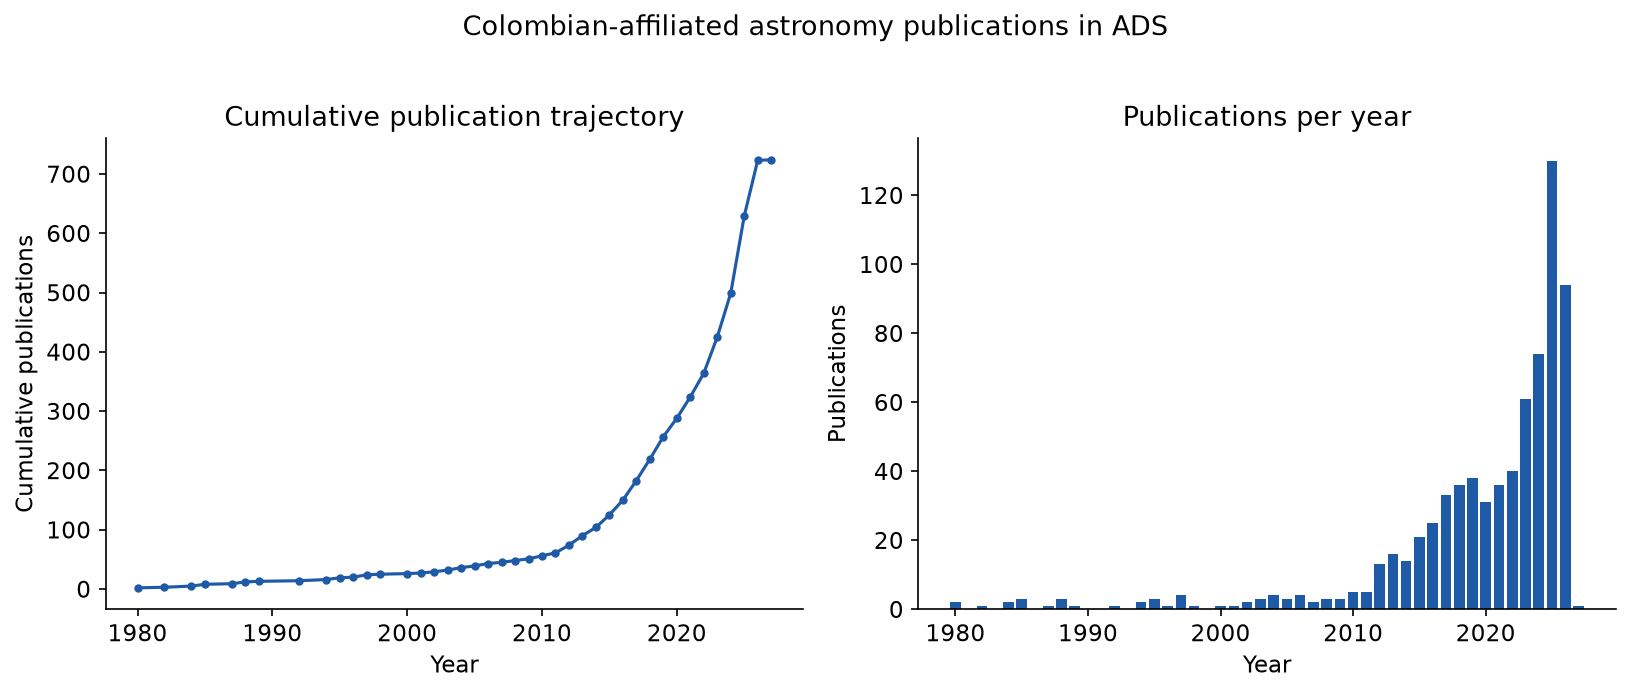
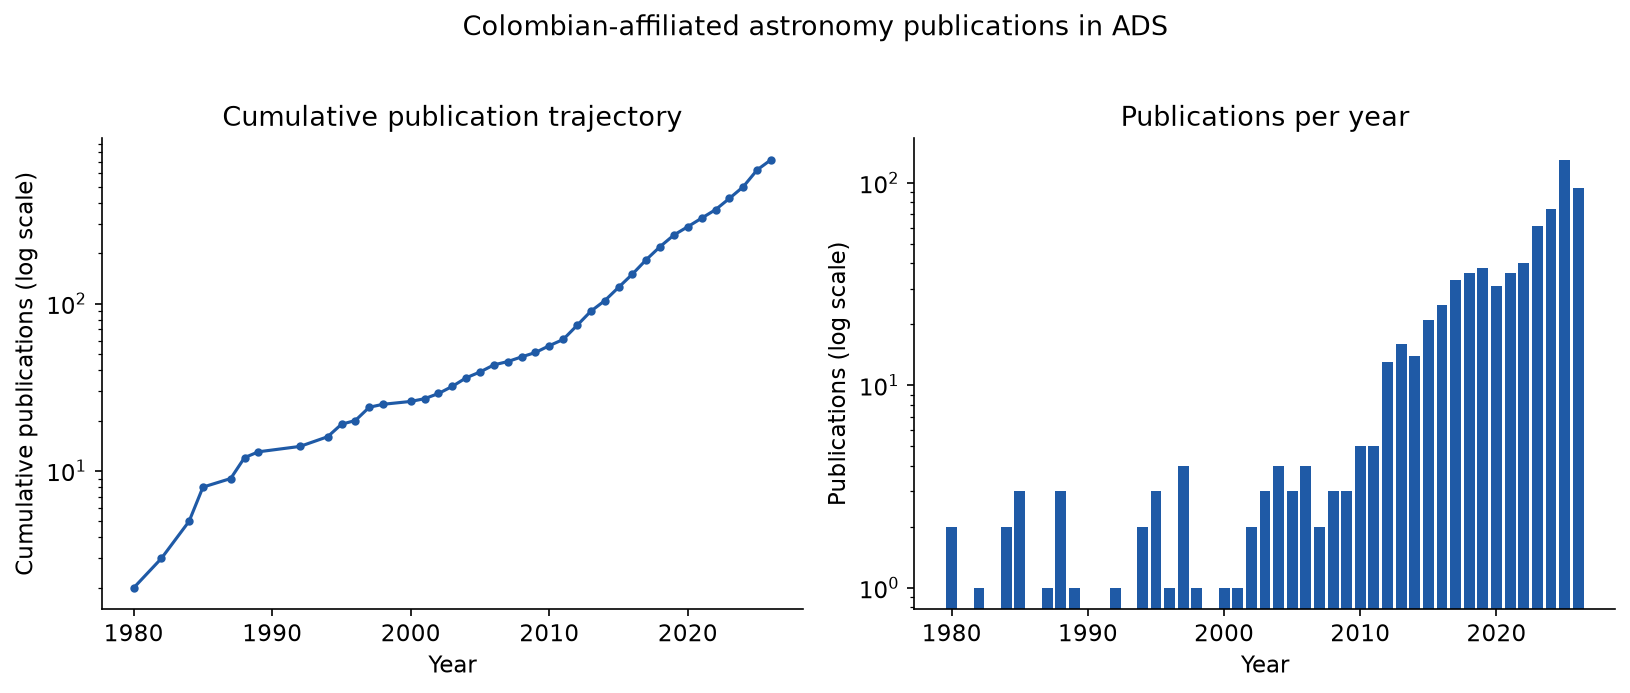
Exclude the single 2027 in-press record; log-scale the publication trend plot
Only one 2027 record exists at the time of writing (already assigned a
bibcode), too sparse to be meaningful in year-based trends and showing up as
a one-off drop in every time series -- build_dataset.py now filters it out
before writing the processed CSVs, so it's excluded consistently everywhere.

Also switches fig1 (cumulative + per-year publications) to log-scale y-axes
to better show the multi-decade growth trend.

diff --git a/src/plots.py b/src/plots.py
@@ -85,13 +85,15 @@ def fig_cumulative_and_annual(pubs: pd.DataFrame) -> None:
     fig, (ax1, ax2) = plt.subplots(1, 2, figsize=(11, 4.5))
 
     ax1.plot(years, cumulative, marker="o", ms=3, color="#1f5aa6")
+    ax1.set_yscale("log")
     ax1.set_xlabel("Year")
-    ax1.set_ylabel("Cumulative publications")
+    ax1.set_ylabel("Cumulative publications (log scale)")
     ax1.set_title("Cumulative publication trajectory")
 
     ax2.bar(years, counts, color="#1f5aa6", width=0.8)
+    ax2.set_yscale("log")
     ax2.set_xlabel("Year")
-    ax2.set_ylabel("Publications")
+    ax2.set_ylabel("Publications (log scale)")
     ax2.set_title("Publications per year")
 
     fig.suptitle("Colombian-affiliated astronomy publications in ADS", y=1.02)

diff --git a/src/build_dataset.py b/src/build_dataset.py
@@ -90,6 +90,10 @@ def build() -> tuple[pd.DataFrame, pd.DataFrame]:
         seen.add(pub.bibcode)
         unique_pubs.append(pub)
 
+    # 2027 has a single in-press record at the time of writing -- too sparse
+    # to be meaningful in year-based trends, so it's excluded throughout.
+    unique_pubs = [pub for pub in unique_pubs if pub.year != 2027]
+
     pub_rows = []
     author_rows = []
     for pub in unique_pubs:

diff --git a/output/tables/table2_top_authors.md b/output/tables/table2_top_authors.md
@@ -8,22 +8,22 @@
 | García-Varela, José-Alejandro | 20 | 2001 | 2026 | 224 | Universidad de los Andes |
 | Lora-Clavijo, Fabio D. | 18 | 2015 | 2026 | 233 | Universidad Industrial de Santander |
 | Dubeibe, Fredy L. | 15 | 2017 | 2026 | 68 | Universidad de los Llanos |
-| Sabogal, Beatriz E. | 13 | 2009 | 2026 | 100 | Universidad de los Andes |
 | Romano, Antonio Enea | 13 | 2013 | 2025 | 299 | Universidad de Antioquia |
+| Sabogal, Beatriz E. | 13 | 2009 | 2026 | 100 | Universidad de los Andes |
 | González, Guillermo A. | 12 | 2006 | 2018 | 185 | Universidad Industrial de Santander |
 | Gieren, Wolfgang P. | 12 | 1980 | 1992 | 224 | Universidad Nacional de Colombia |
-| Cuartas-Restrepo, Pablo Andrés | 11 | 2012 | 2026 | 114 | Universidad de Antioquia |
-| Sucerquia, Mario Alexander | 11 | 2015 | 2021 | 213 | Universidad de Antioquia |
 | Sierra-Porta, David | 11 | 2022 | 2026 | 476 | Universidad Tecnológica de Bolívar |
+| Sucerquia, Mario Alexander | 11 | 2015 | 2021 | 213 | Universidad de Antioquia |
+| Cuartas-Restrepo, Pablo Andrés | 11 | 2012 | 2026 | 114 | Universidad de Antioquia |
 | Chaparro, Germán | 10 | 2023 | 2026 | 70 | Universidad de Antioquia |
 | Ferrín, Ignacio | 9 | 2012 | 2021 | 72 | Universidad de Antioquia |
-| Calvo-Mozo, Benjamín | 8 | 2012 | 2026 | 117 | Universidad Nacional de Colombia |
-| Silva-Villa, E. | 8 | 2014 | 2024 | 493 | Universidad de Antioquia |
-| Valenzuela-Toledo, César A. | 8 | 2012 | 2025 | 94 | Universidad del Valle |
-| Castañeda, Leonardo | 8 | 2011 | 2026 | 49 | Universidad Nacional de Colombia |
 | Pinzón, Giovanni | 8 | 2010 | 2024 | 303 | Universidad Nacional de Colombia |
+| Silva-Villa, E. | 8 | 2014 | 2024 | 493 | Universidad de Antioquia |
+| Calvo-Mozo, Benjamín | 8 | 2012 | 2026 | 117 | Universidad Nacional de Colombia |
+| Castañeda, Leonardo | 8 | 2011 | 2026 | 49 | Universidad Nacional de Colombia |
+| Valenzuela-Toledo, César A. | 8 | 2012 | 2025 | 94 | Universidad del Valle |
+| Torres, Sergio | 7 | 1994 | 2013 | 54 | Universidad de los Andes |
+| Becerra, Laura M. | 7 | 2019 | 2023 | 137 | Universidad Industrial de Santander |
+| Muñoz-Cuartas, J. C. | 7 | 2014 | 2025 | 211 | Universidad de Antioquia |
 | Chaves-Velasquez, Leonardo | 7 | 2019 | 2023 | 117 | Universidad de Nariño |
 | Asorey, H. | 7 | 2017 | 2019 | 858 | Universidad Industrial de Santander |
-| Muñoz-Cuartas, J. C. | 7 | 2014 | 2025 | 211 | Universidad de Antioquia |
-| Becerra, Laura M. | 7 | 2019 | 2023 | 137 | Universidad Industrial de Santander |
-| Torres, Sergio | 7 | 1994 | 2013 | 54 | Universidad de los Andes |

diff --git a/README.md b/README.md
@@ -87,7 +87,11 @@ genuinely different name spellings.
 
 ## Known limitations
 
-
+- **2027 is excluded from all analysis.** At the time of writing there is a
+  single in-press 2027 record (already assigned a bibcode) — too sparse a
+  bucket to be meaningful in year-based trends, and it would otherwise show
+  up as a one-off drop in every time series. `build_dataset.py` drops it
+  before writing `publications.csv`/`authorships.csv`.
 - **Institution matching is substring-based**, not a controlled ROR/GRID
   lookup, and Colombian secondary schools / non-academic institutions that
   happen to add "Colombia" to their affiliation string are counted the same
@@ -106,7 +110,7 @@ genuinely different name spellings.
 ## Outputs
 
 **Figures** (`output/figures/`):
-1. `fig1_publications_over_time.png` — cumulative and per-year publication counts
+1. `fig1_publications_over_time.png` — cumulative and per-year publication counts (log scale)
 2. `fig2_avg_authors_per_year.png` — mean/median authors per publication by year
 3. `fig3_authors_distribution.png` — log-log histogram of authorship size
 4. `fig4_top_institutions.png` — top 20 Colombian institutions by publication count
@@ -122,8 +126,8 @@ h-index per institution), `table2_top_authors`, `table3_journals`,
 `table4_top_cited` (top 10 most-cited articles) — all CSV + Markdown — plus
 `summary_stats.md`.
 
-As of the current data snapshot: 724 publications (1980–2027, including
-in-press/forthcoming items already assigned a bibcode), spanning 57 journals,
+As of the current data snapshot: 723 publications (1980–2026; the sole 2027
+in-press record is excluded, see Known limitations), spanning 56 journals,
 about 380 unique authors (after name matching) with a Colombian affiliation,
 26,550 total citations, and an overall h-index of 65. The most-cited paper is
 the 2017 multi-messenger neutron-star-merger discovery (GW170817), with 4,140

diff --git a/output/tables/summary_stats.md b/output/tables/summary_stats.md
@@ -1,12 +1,12 @@
 # Summary statistics
 
-- **Total publications:** 724
-- **Year range:** 1980–2027
-- **Total unique authors:** 4844
-- **Unique authors with a Colombian affiliation:** 381
-- **Unique journals:** 57
+- **Total publications:** 723
+- **Year range:** 1980–2026
+- **Total unique authors:** 4843
+- **Unique authors with a Colombian affiliation:** 380
+- **Unique journals:** 56
 - **Unique Colombian institutions identified:** 33
-- **Mean authors per publication:** 32.59
+- **Mean authors per publication:** 32.63
 - **Median authors per publication:** 6
 - **Total citations:** 26550
 - **Overall h-index:** 65

diff --git a/output/tables/table1_institutions.md b/output/tables/table1_institutions.md
@@ -4,7 +4,7 @@
 | --- | --- | --- | --- | --- | --- | --- |
 | Universidad de los Andes | 298 | 66 | 1980 | 2026 | 12603 | 47 |
 | Universidad de Antioquia | 99 | 71 | 2005 | 2026 | 2098 | 22 |
-| Universidad Nacional de Colombia | 99 | 91 | 1980 | 2027 | 1313 | 19 |
+| Universidad Nacional de Colombia | 98 | 90 | 1980 | 2026 | 1313 | 19 |
 | Universidad Industrial de Santander | 67 | 38 | 2006 | 2026 | 1950 | 21 |
 | Universidad del Valle | 19 | 16 | 2012 | 2025 | 220 | 8 |
 | Universidad Tecnológica de Pereira | 17 | 12 | 1997 | 2026 | 112 | 5 |
